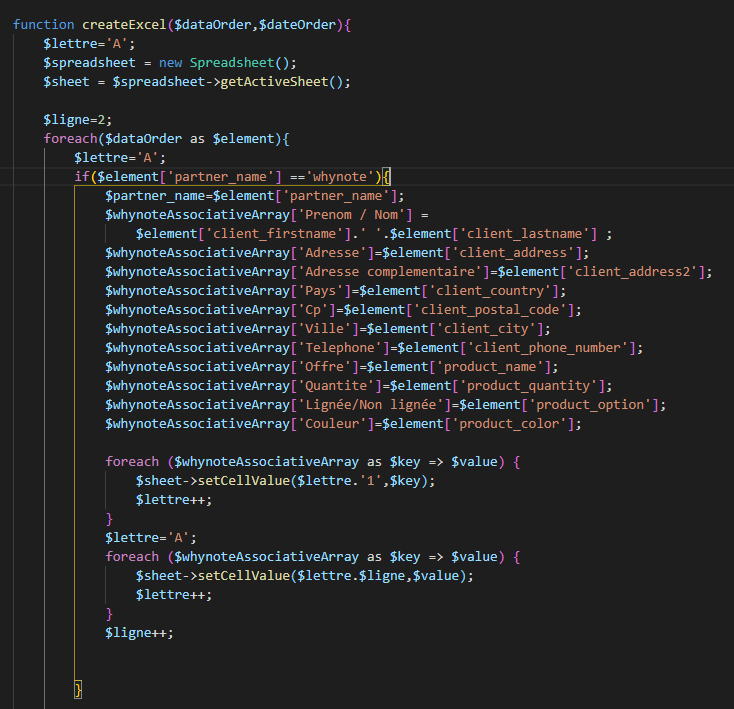
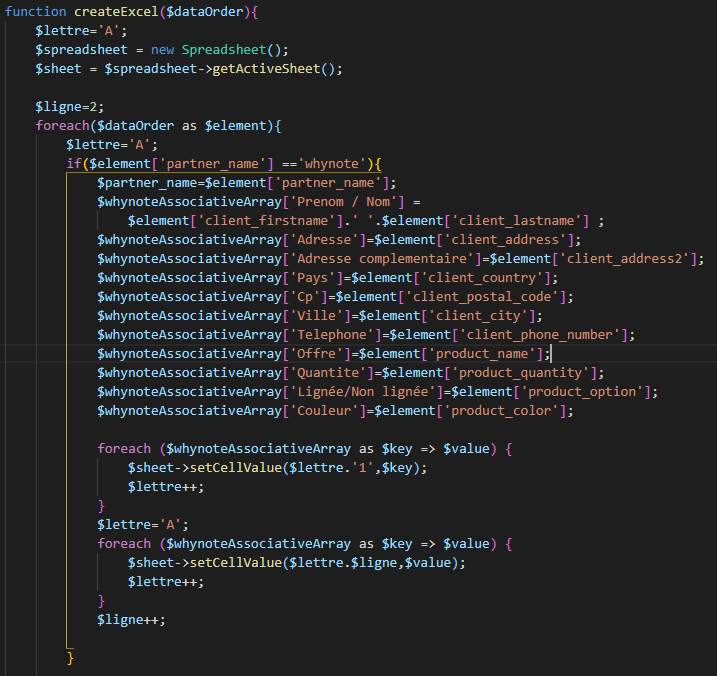
ajout screen

Changed region(s): [[0.0307, 0.1553, 0.9819, 0.9941], [0.0, 0.0, 0.4909, 0.1243]]

diff --git a/src/Models/Order.php b/src/Models/Order.php
@@ -14,6 +14,18 @@
             return $orders;
         }
 
+        function getAllOrdersByDate($partner,$date){
+            $orders = $this->fetchAll(['query' => 'SELECT * FROM  Orders , Products, Orders_products  
+            where  Products.partner_name= :partner_name 
+            and orders.id_order = Orders_products.id_order 
+            and Products.id_product = Orders_products.id_product;
+            and orders.order_date = :date'
+            ,
+            'definitions' => [':partner_name' => $partner,
+                              ':date' => $date  ]
+            ]);
+        }
+
         function addWhynoteOrder($dataClient){
             
             $this->executeQuery([

diff --git a/src/Data/Router.php b/src/Data/Router.php
@@ -230,9 +230,10 @@
 
 
             Router::$requests[] = [
-                'names' => ['dateExcel', "azda"],
+                'names' => ['dateExcel'],
                 'action' => function($request){
-                    Router::$helper->createExcel(Router::$order->model->getAllOrders($request['partnerName']),$request['dateExcel']);
+                    Router::$helper->createExcel(
+                        Router::$order->model->getAllOrdersByDate($request['partnerName'],$request['dateExcel']));
                     echo'Excel créé';
                     die();
                 }
